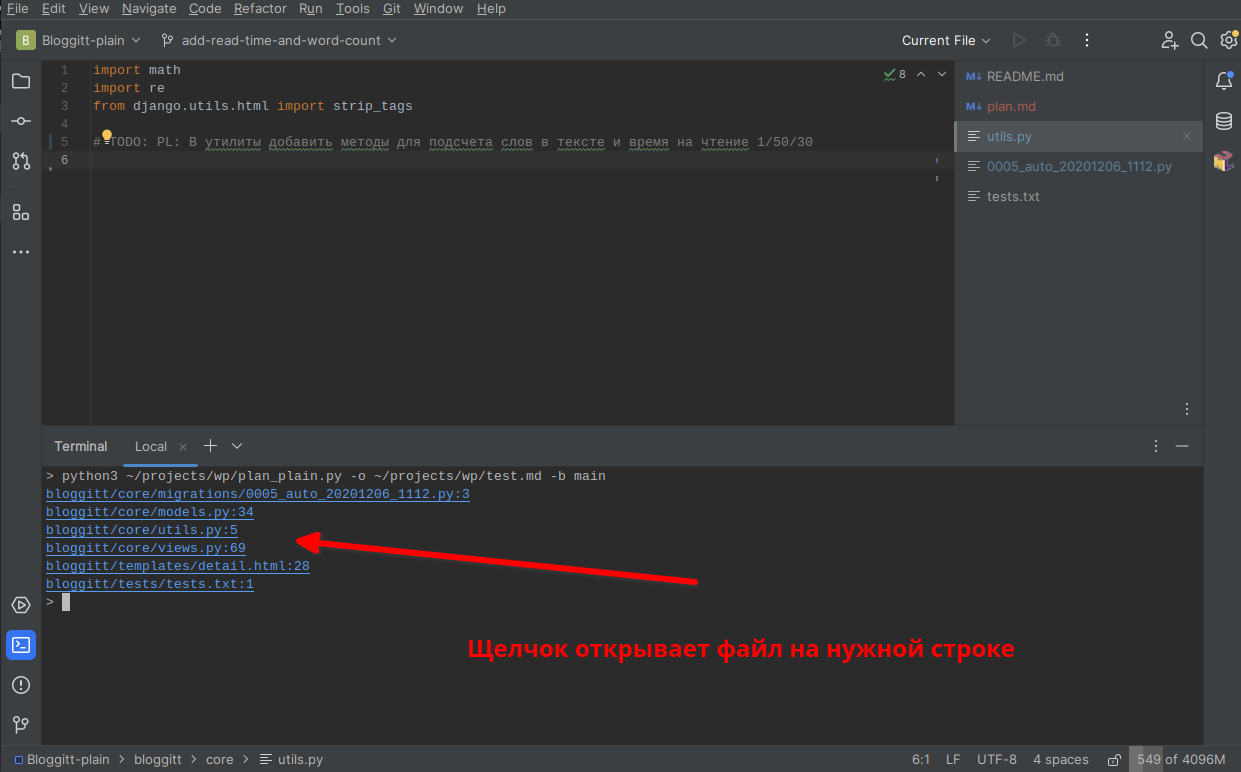
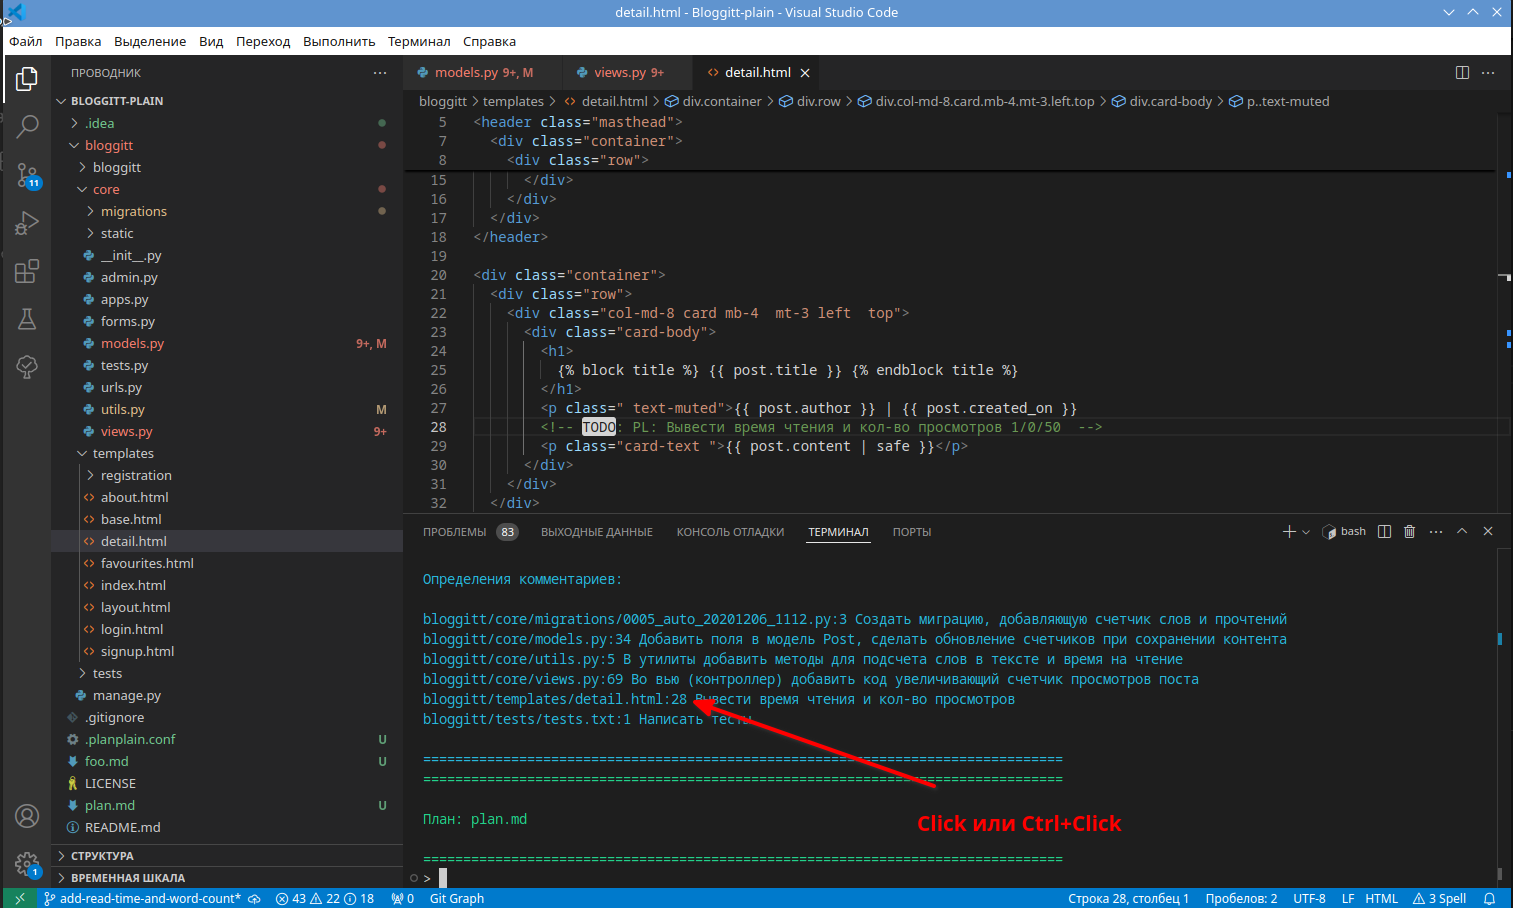
WIP - docs, images

diff --git a/srclib/view/console/task.py b/srclib/view/console/task.py
@@ -9,11 +9,11 @@ class ViewConsoleTask():
     def __init__(self, task) -> None:
         self.task = task
 
-    def print_errors(self, supress_error_no_main_comment=False):
-        self.print_task_errors(supress_error_no_main_comment)
+    def print_errors(self, suppress_error_no_main_comment=False):
+        self.print_task_errors(suppress_error_no_main_comment)
         self.print_loops_error()
 
-    def print_task_errors(self, supress_error_no_main_comment):
+    def print_task_errors(self, suppress_error_no_main_comment):
         for comment in self.task.comments:
             presenter = GraphCommentPresenter(comment)
             if presenter.all_errors:
@@ -33,7 +33,7 @@ class ViewConsoleTask():
             if not graph.semantic_comments:
                 print_error(self.graph_presenter.error_no_comments)
 
-            if not graph.has_main_comment and not supress_error_no_main_comment:
+            if not graph.has_main_comment and not suppress_error_no_main_comment:
                 print_error(self.graph_presenter.error_no_main_comment)
 
             self.print_loops_error()

diff --git a/srclib/presenter/scanner_presenter.py b/srclib/presenter/scanner_presenter.py
@@ -20,6 +20,23 @@ class ScannerPresenter():
         return ['\n'.join(errors)]
 
     @property
+    def positions(self):
+        comments = []
+
+        for src_comment in self.scanner.src_comments:
+            header = ''
+
+            if len(src_comment["header"]) > 0:
+                header = src_comment["header"][0]
+
+            comments.append([src_comment["file_name"], src_comment["line_num"], header])
+
+        comments.sort()
+        comments = [f'{c[0]}:{c[1]} {c[2]}' for c in comments]
+
+        return _('COMMENT DEFINITIONS:') + '\n\n' + '\n'.join(comments)
+
+    @property
     def exclude_hint(self):
         excluded_extensions = self.excluded_extensions
         error_files = [e['file_name'] for e in self.scanner.files_with_errors]

diff --git a/srclib/view/console/plain_plan.py b/srclib/view/console/plain_plan.py
@@ -25,11 +25,12 @@ class ViewConsolePlainPlan():
         self.scanner_view = ViewConsoleScanner(arguments, scanner)
         self.task_view = ViewConsoleTask(self.task)
 
-    def print_summary(self, supress_error_no_main_comment=False):
+    def print_summary(self, suppress_error_no_main_comment=False):
         self.prerequisites_checker_view.print_errors()
         self.file_list_view.print_errors()
         self.scanner_view.print_errors()
-        self.task_view.print_errors(supress_error_no_main_comment)
+        self.task_view.print_errors(suppress_error_no_main_comment)
+        self.scanner_view.print_comment_positions()
 
         result = []
         if self.result['out_markdown_file']:

diff --git a/srclib/utils.py b/srclib/utils.py
@@ -29,6 +29,10 @@ def wrap_success(text):
     return Color.OKGREEN + text + Color.ENDC
 
 
+def wrap_info(text):
+    return Color.OKCYAN + text + Color.ENDC
+
+
 def print_error(text):
     print(wrap_error('=' * 80) + "\n")
     print(wrap_error(text))
@@ -45,6 +49,12 @@ def print_success(text):
     print(wrap_success('=' * 80) + "\n")
     print(wrap_success(text))
     print("\n" + wrap_success('=' * 80))
+
+
+def print_info(text):
+    print(wrap_info('=' * 80) + "\n")
+    print(wrap_info(text))
+    print("\n" + wrap_info('=' * 80))
 
 
 class ExecuteCommandError(Exception):

diff --git a/srclib/view/console/scanner.py b/srclib/view/console/scanner.py
@@ -2,6 +2,7 @@
 
 from srclib.presenter.scanner_presenter import ScannerPresenter
 from srclib.utils import print_warning
+from srclib.utils import print_info
 
 
 class ViewConsoleScanner():
@@ -17,3 +18,8 @@ class ViewConsoleScanner():
 
             if presenter.exclude_hint:
                 print_warning(presenter.exclude_hint)
+
+    def print_comment_positions(self):
+        if self.scanner.src_comments:
+            presenter = ScannerPresenter(self.scanner, self.args.excluded_extensions)
+            print_info(presenter.positions)

diff --git a/srclib/app/plain_plan.py b/srclib/app/plain_plan.py
@@ -91,6 +91,6 @@ class AppPlanPlain(AppBasePlain):
             return AppPlanPlain.FAIL
 
         finally:
-            self.view.print_summary(supress_error_no_main_comment=True)
+            self.view.print_summary(suppress_error_no_main_comment=True)
 
         return AppPlanPlain.SUCCESS

diff --git a/srclib/view/console/graph_plan.py b/srclib/view/console/graph_plan.py
@@ -31,6 +31,7 @@ class ViewConsoleGraphPlan():
         self.file_list_view.print_errors()
         self.scanner_view.print_errors()
         self.task_view.print_errors()
+        self.scanner_view.print_comment_positions()
 
         summary = []
         if self.result['out_graph_file']:

diff --git a/readme-graph.md b/readme-graph.md
@@ -9,6 +9,8 @@
 
 В plangraph комментарий может указывать на другие комментарии, от выполнения которых он зависит, тем самым формируя сложную структуру. В общем случае такая структура является графом. Для графа строится остовное дерево, из которого формируется документ. Поскольку документ повторяет структуру дерева, то получается уже не плоский список, а структурированный документ с подпунктами.
 
+При внесении изменений в существующий код комментарии располагаются в существующих файлах, если планируется новый файл - то создается новый файл и в нем пишутся комментарии. Для главного комментария лучше создать в корне проекта текстовый файл с именем типа plan.txt. В этот же файл можно поместить некоторые комментарии вроде "Написать тесты"
+
 ## Пример комментария
 
 ```
@@ -19,11 +21,11 @@
 # COMPL: 50                           Готовность в процентах
 ```
 
-__[Пример документа](doc-examples/plan-graph-example.md)__
+__[Пример документа](img/plan-graph-example.md)__
 
 Диаграмма для этого документа (кликабельно):
 
-![Diagram](doc-examples/plan-graph-example.png)
+![Diagram](img/plan-graph-example.png)
 
 ## Запуск
 
@@ -109,7 +111,7 @@ __[Пример документа](doc-examples/plan-graph-example.md)__
 # COMPL: 90
 # DEV: Backender
 ```
-![Diagram](doc-examples/dependeny-example.png)
+![Diagram](img/dependeny-example.png)
 
 Сплошные стрелки на диаграмме образуют дерево, структура которого соответствует структуре документа.
 Для диаграммы выше документ будет иметь следующую структуру:
@@ -131,7 +133,7 @@ __[Пример документа](doc-examples/plan-graph-example.md)__
 ```
 то диаграмма примет такой вид:
 
-![Diagram](doc-examples/dependeny-example-2.png)
+![Diagram](img/dependeny-example-2.png)
 
 Теперь дерево изменилось и ему соответствует документ со следующей структурой:
 
@@ -335,6 +337,21 @@ verbose = 0
 
 Образец файла можно найти [тут](.plan.conf).
 
+
 ## Советы по использованию
 
-TODO
+Для ускорения ввода можно использовать шаблоны, которые поддерживаются всеми основными IDE.
+
+![Template](img/plan-graph-tpl-jb.gif)
+
+Пример настройки для продуктов JetBrains:
+
+![Template](img/plan-graph-tpl-jb.png)
+
+Для навигации удобно использовать встроенные или установленные как дополнение в IDE списки  TODO с фильтрацией по маркеру PL
+
+![TODO](img/todo.png)
+
+Если в IDE запустить утилиту во встроенном терминале, то можно легко перемещаться по TODO с помощью вывода утилиты в консоль
+
+![Terminal](img/terminal-graph.png)

diff --git a/readme-plain.md b/readme-plain.md
@@ -16,7 +16,7 @@ _________ ___________________________ ________________________________________
 Маркер    описание                    время/готовность/положение в документе
 ```
 
-__[Пример документа](doc-examples/plan-plain-example.md)__
+__[Пример документа](img/plan-plain-example.md)__
 
 Последовательность пунктов в документе определяется в соответствии с параметром "порядок" в комментарии. В документе выводится текст комментария, место где он определен, время и прогресс. Вначале документа заголовок, общее время и прогресс, дата создания.
 
@@ -27,7 +27,7 @@ __[Пример документа](doc-examples/plan-plain-example.md)__
 В директории с рабочим проектом, в которой исходники с комментариями:
 
 ```
-> python3 /path/to/wp/planplain.py -b [имя базовой ветви git]
+> python3 /path/to/workplan/planplain.py -b [имя базовой ветви git]
 ```
 
 ### Параметры командной строки
@@ -174,12 +174,16 @@ verbose = 0
 
 Для ускорения ввода можно использовать шаблоны, которые поддерживаются всеми основными IDE.
 
-![Template](img/plan.gif)
+![Template](img/plan-plain-tpl-jb.gif)
+
+Пример настройки для продуктов JetBrains:
+
+![Template](img/plan-plain-tpl-jb.png)
 
 Для навигации удобно использовать встроенные или установленные как дополнение в IDE списки  TODO с фильтрацией по маркеру PL
 
 ![TODO](img/todo.png)
 
-Если в IDE Idea запустить утилиту во встроенном терминале, то можно легко перемещаться по TODO с помощью вывода утилиты в консоль
+Если в IDE запустить утилиту во встроенном терминале, то можно легко перемещаться по TODO с помощью вывода утилиты в консоль
 
 ![Terminal](img/terminal.png)
